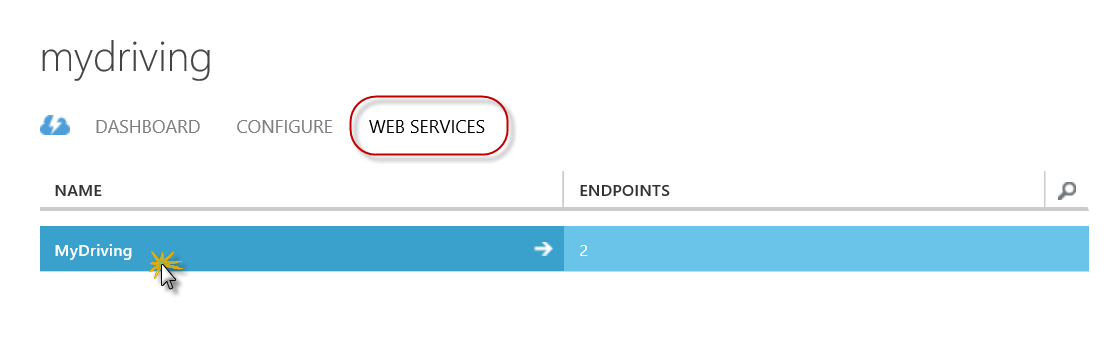
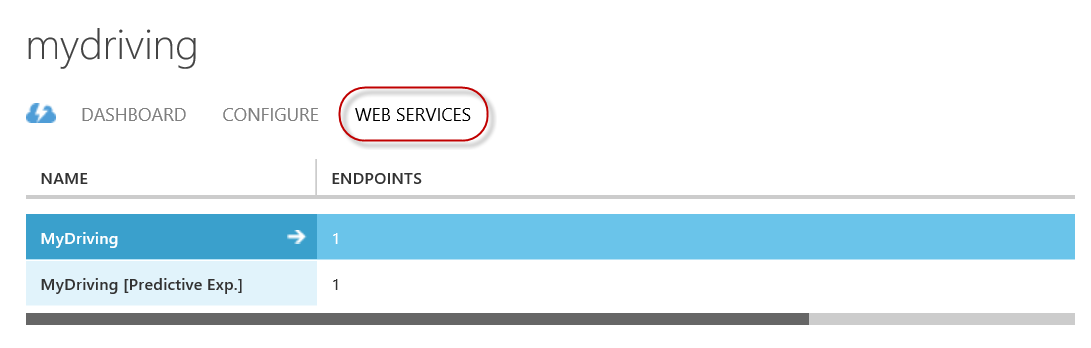
Updated Machine Learning manual setup steps

Changed region(s): [[0.0, 0.4885, 0.9973, 0.9483], [0.0, 0.2299, 0.4675, 0.4598], [0.0, 0.0862, 0.187, 0.2299]]

diff --git a/scripts/README.md b/scripts/README.md
@@ -131,19 +131,30 @@ Follow these steps to deploy the starter kit using Bash:
 1. Make sure that **mydriving-archive**, **mydriving-sqlpbi**, **mydriving-hourlypbi**, and **mydriving-vinlookup** jobs are all running.
 
 ### Machine Learning Configuration
-1. In the [Azure portal](https://portal.azure.com), obtain the credentials for the storage account whose name is prefixed with **"mydrivingstr"**. It can be found under the resource group of the solution.
+1. Before you can proceed, you need to obtain the credentials for the storage account and SQL databases in the solution. Go 
+   to the [Azure portal](https://portal.azure.com), click **Resource Groups**, select the solution's resource group, then **All Settings**, and then **Resources**. 
+    
+1. In the list of resources, click the storage account whose name is prefixed with **"mydrivingstr"**, then **All Settings**, and then **Access Keys**. Make a note of the **Storage Account Name** and **Key1**.
 
-   ![Storage Account](Images/storage-account.png?raw=true "Storage Account")
+   ![Storage Account Credentials](Images/storage-account-credentials.png?raw=true "Storage Account Credentials")
    
-   _Storage Account_
+   _Storage Account Credentials_
 
-1. Go to the [Azure classic portal](https://manage.windowsazure.com/), select the **Machine Learning** service and then the **mydriving** workspace. Open the workspace by selecting **Sign-in to ML Studio**.
-
-1. Click the **Reader** module at the top of the experiment diagram to select it and in the **Properties** pane, set the **Account Name** and **Account Key** properties to the values obtained previously.
-
-   ![Configuring the ML Storage Account](Images/ml-storage-account.png?raw=true "Configuring the ML Storage Account")
+1. Next, locate the **myDrivingAnalyticsDB** SQL Database in the solution, open its **All Settings** blade, and then its **Properties** blade. Make a note of the, database name, **Server Name** and **Server Admin Login** properties.
+  
+   ![SQL Database Credentials](Images/sql-database-credentials.png?raw=true "SQL Database Credentials")
    
-   _Configuring the ML Storage Account_
+   _SQL Database Credentials_
+ 
+1. Repeat the previous step to obtain the database name, **Server Name** and **Server Admin Login** properties of the **myDrivingDB** SQL Database.
+
+1. Now, go to the [Azure classic portal](https://manage.windowsazure.com/), select the **Machine Learning** service and then the **mydriving** workspace. Open the workspace by selecting **Sign-in to ML Studio**.
+
+1. Click the **Reader** module at the top of the experiment diagram to select it and in the **Properties** pane, set the **Account Name** and **Account Key** properties to the storage account values obtained previously.
+
+   ![Configuring the ML Reader](Images/ml-configure-reader.png?raw=true "Configuring the ML Reader")
+   
+   _Configuring the ML Reader_
    
 1. Click **Run** at the bottom of the page to run the **MyDriving** experiment.
 
@@ -152,8 +163,22 @@ Follow these steps to deploy the starter kit using Bash:
    ![Deploying an ML Web Service](Images/ml-deploy-web-service.png?raw=true "Deploying an ML Web Service")
    
    _Deploying an ML Web Service_
+   
+1. Switch to the **Predictive Experiment** tab and configure the **Reader** module property by updating the **Account Name** and **Account Key** properties with the same storage account information that you used previously to configure the **Training Experiment**.
+ 
+1. Select one of the two **Writer** modules in the diagram and in the **Properties** pane, update the **Database server name**, **Server user account name**, and **Server user account password** properties with the values obtained previously. Use the values corresponding to the database shown in the **Database name** property. For the **Server user account name** set the value as &lt;user name&gt;@&lt;server name&gt;.
+ 
+  ![Configuring the ML Writer](Images/ml-configure-writer.png?raw=true "Configuring the ML Writer")
+   
+  _Configuring the ML Writer_
+ 
+1. Repeat the previous step to configure the **Writer** module for the other database.
+ 
+1. Now, click **Run**
+ 
+1. After the run completes, click **Deploy Web Service**.
 
-1. Go back to the [Azure classic portal](https://manage.windowsazure.com/), select the **Machine Learning** service and then the **mydriving** workspace. Now switch to the **Web Services** tab and select the **MyDriving** web service.
+1. Go back to the [Azure classic portal](https://manage.windowsazure.com/), select the **Machine Learning** service and then the **mydriving** workspace. Now switch to the **Web Services** tab and select the **MyDriving [Predictive Exp.]** web service.
 
    ![Configuring ML Web Services](Images/ml-web-services.png?raw=true "Configuring ML Web Services")
    
@@ -165,11 +190,19 @@ Follow these steps to deploy the starter kit using Bash:
    
    _Adding an ML Web Service Endpoint_
 
-1. Select the newly added endpoint and copy the API key shown in the dashboard, under the **Quick Glance** section.
+1. Click **retrain** in the list of endpoints to shown its **Dashboard** and then copy the API key , under the **Quick Glance** section.
 
-1. Next, click **BATCH EXECUTION** to open the API documentation page and copy the **Request URI** of the **Submit (but not start) a Batch Execution job** operation.
+1. Click **BATCH EXECUTION** to open the API documentation page and copy the **Request URI** of the **Submit (but not start) a Batch Execution job** operation.
 
-1. Make a note of the API Key and the request URI of the **retrain** endpoint. You'll need these values later to configure the Data Factory's **TrainingEndpoint-AMLLinkedService** linked service.
+1. Return to the **retrain** endpoint dashboard, click **UPDATE RESOURCE** and copy the **Request URI** of the **Submit (but not start) a Batch Execution job** operation.
+
+1. Keep a record of the API Key and the batch execution and update resource request URIs of the **retrain** endpoint. You'll need these values later to configure the Data Factory's **AzureMLScoringandUpdateLinkedService** linked service. 
+
+1. Return to the **Web Services** list and select the **MyDriving** web service, then select the **default** endpoint to show its **Dashboard**, and then copy the API key , under the **Quick Glance** section.
+
+1. Click **BATCH EXECUTION** to open the API documentation page and copy the **Request URI** of the **Submit (but not start) a Batch Execution job** operation.
+
+1. Keep a record of the API Key and the batch execution request URI of the **default** endpoint. You'll need these values later to configure the Data Factory's **TrainingEndpoint-AMLLinkedService** linked service.
 
 ### Azure Data Factory configuration
 
@@ -187,35 +220,24 @@ Follow these steps to deploy the starter kit using Bash:
    
    _Configuring the Data Factory_
    
-1. Update the linked service definition by entering the following information from the Machine Learning experiment.
+1. Update the linked service definition by entering the information that you obtained previously from the **retrain** endpoint of the **MyDriving [Predictive Exp.]** web service. 
+
+  - **mlEndpoint**: request URI of the batch execution operation for the **retrain** endpoint of the **MyDriving [Predictive Exp.]** web service
+  - **apiKey**: API key for the **retrain** endpoint of the **MyDriving [Predictive Exp.]** web service
+  - **updateResourceEndpoint**: request URI of the update resource operation for the **retrain** endpoint of the **MyDriving [Predictive Exp.]** web service
 
    ![Configuring a Linked Service](Images/configuring-linked-service.png?raw=true "Configuring a Linked Service")
 
     _Configuring a Linked Service_
 
-  - **mlEndpoint**: [TBD] endpoint for the Machine Learning experiment
-  - **apiKey**: [TBD] API key
-  - **updateResourceEndpoint**: [TBD]
-  
 1. Click **Deploy**.
 
-1. Next, under **Linked Services**, select **TrainingEndpoint-AMLLinkedService** and enter the values of the **mlEndpoint** and **apiKey** of the **retrain** endpoint you obtained earlier when you configured the ML experiment. Click **Deploy**.
-  
-### Machine Learning configuration
+1. Next, under **Linked Services**, select **TrainingEndpoint-AMLLinkedService** and update its definition by entering the information that you obtained previously from the **default** endpoint of the **MyDriving** web service.
 
-1. Open the Machine Learning workspace (named MyDriving).
+  - **mlEndpoint**: request URI of the batch execution operation of the **default** endpoint of the **MyDriving** web service
+  - **apiKey**: API key for the **default** endpoint of the **MyDriving** web service
 
-2. Modify the Reader components in both experiments to enter a storage account key. The storage account is under the same resource group and should have a name prefixed with **"mydrivingstr"**.
-
-   ![Storage Account](Images/storage-account.png?raw=true "Storage Account")
-   
-   _Storage Account_
-
-3. Modify the Writer components in both experiments to enter correct SQL Database connection info. You need to provide correct SQL Database server names and login credentials for both mydrivingDB database (on a server with a "mydrivingdbserver" prefix) and mydrivingAnalyticsDB (on a server with a "mydriving-dbserver" prefix). 
-
-   ![SQL Databases](Images/sql-databases.png?raw=true "SQL Databases")
-   
-   _SQL Databases_
+1. Click **Deploy**.
 
 ##### _Additional Information_
 You can use the supplied **scripts\PowerShell\scripts\copyMLExperiment.ps1** to import previously packaged ML experiments at these locations:
